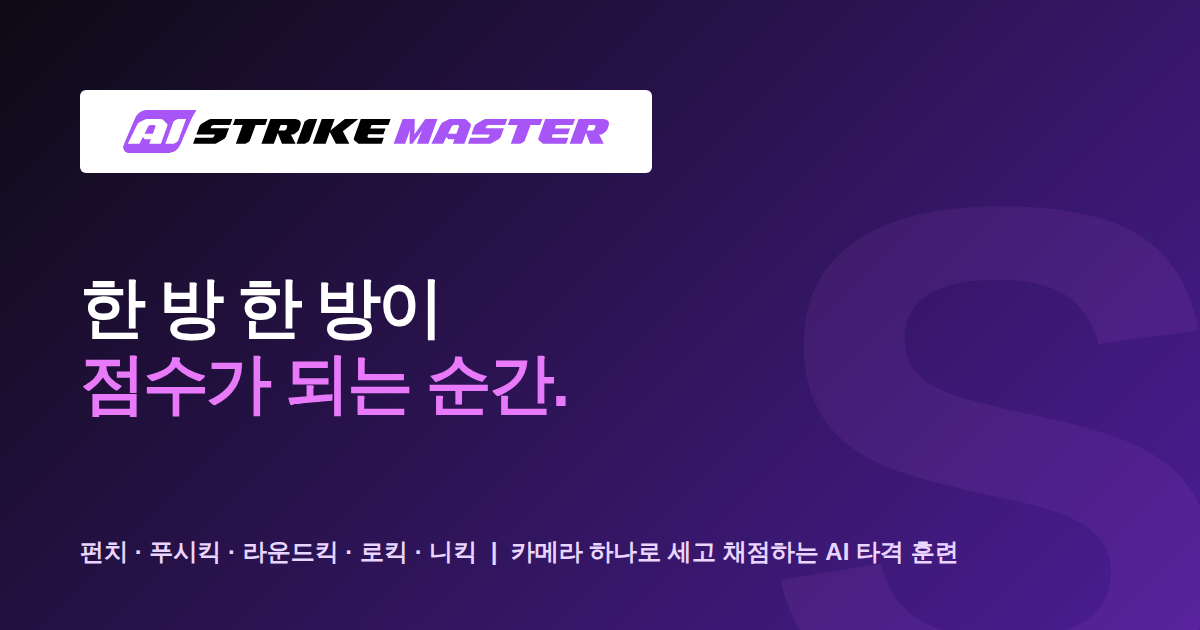
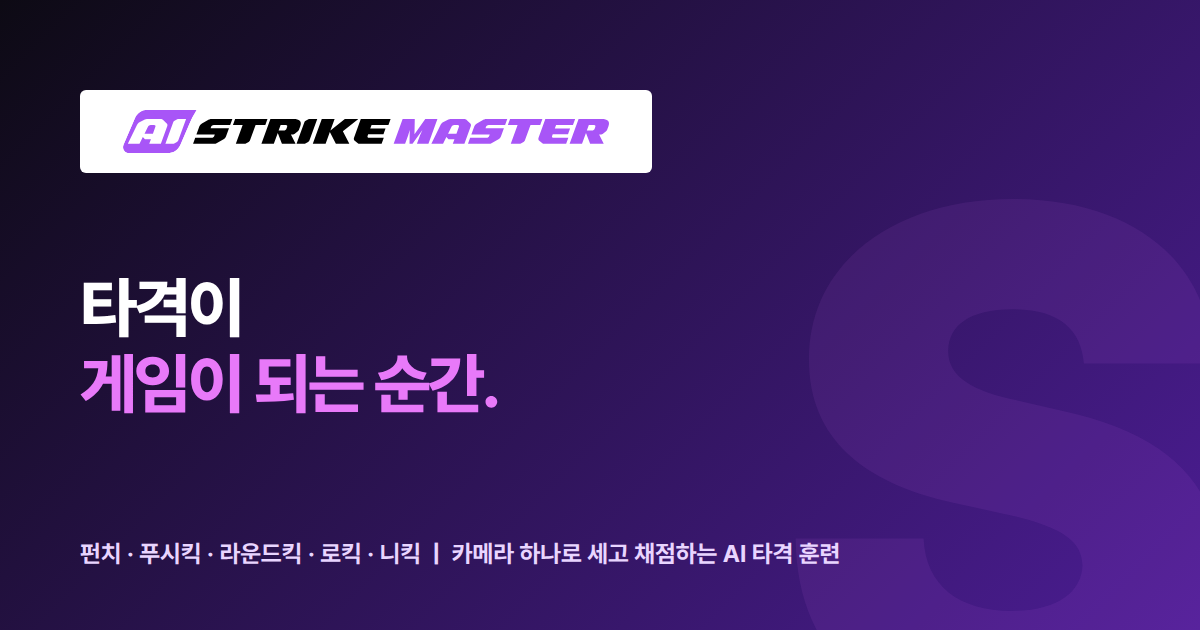
머릿말 통일 · 게임이 되는 순간

Changed region(s): [[0.0617, 0.4222, 0.4625, 0.6635], [0.0617, 0.8444, 0.8017, 0.9048]]

diff --git a/jumpmaster.html b/jumpmaster.html
@@ -35,16 +35,17 @@
 <meta property="og:site_name" content="나른랩스 NARUUN LABS">
 <meta property="og:locale" content="ko_KR">
 <meta property="og:url" content="https://naruunlabs.kr/jumpmaster">
-<meta property="og:title" content="AI 점프마스터 (AI JUMP MASTER) | 줄넘기 수업이 게임이 되는 순간">
+<meta property="og:title" content="AI 점프마스터 (AI JUMP MASTER) | 줄넘기가 게임이 되는 순간">
 <meta property="og:description" content="카메라 한 대로 줄넘기 횟수와 착지 리듬을 실시간 측정합니다. 1인·2인·릴레이·단체 리듬까지, 태권도장 줄넘기 수업을 더 쉽고 재미있게.">
-<meta property="og:image" content="https://naruunlabs.kr/og-jumpmaster-v2.png">
+
+<meta property="og:image" content="https://naruunlabs.kr/og-jumpmaster-v3.png">
 <meta property="og:image:width" content="1200">
 <meta property="og:image:height" content="630">
-<meta property="og:image:alt" content="AI JUMP MASTER | 줄넘기 수업이 게임이 되는 순간">
+<meta property="og:image:alt" content="AI JUMP MASTER | 줄넘기가 게임이 되는 순간">
 <meta name="twitter:card" content="summary_large_image">
-<meta name="twitter:title" content="AI 점프마스터 (AI JUMP MASTER) | 줄넘기 수업이 게임이 되는 순간">
+<meta name="twitter:title" content="AI 점프마스터 (AI JUMP MASTER) | 줄넘기가 게임이 되는 순간">
 <meta name="twitter:description" content="카메라 한 대로 줄넘기 횟수와 착지 리듬을 실시간 측정합니다. 1인·2인·릴레이·단체 리듬까지, 태권도장 줄넘기 수업을 더 쉽고 재미있게.">
-<meta name="twitter:image" content="https://naruunlabs.kr/og-jumpmaster-v2.png">
+<meta name="twitter:image" content="https://naruunlabs.kr/og-jumpmaster-v3.png">
 <meta name="description" content="웹캠 기반 AI 자세 인식으로 줄넘기 훈련을 리듬감 있고 직관적인 AI 측정 경험으로 바꾸는 AI 점프마스터(AI JUMP MASTER)." />
 
 <script type="application/ld+json">
@@ -648,7 +649,8 @@ footer{
   <section class="hero">
     <div class="wrap hero-inner">
       <div class="badge" id="jumpBadge">AI 자세 인식 · 줄넘기 훈련</div>
-      <h1 id="jumpTitle">줄넘기가<br><span>리듬이 되는 순간.</span></h1>
+      
+      <h1 id="jumpTitle">줄넘기가<br><span>게임이 되는 순간.</span></h1>
       <p class="lead" id="jumpLead">웹캠 하나로 점프 횟수와 리듬을 실시간으로 측정합니다. 수련생은 화면의 즉각적인 반응을 보며 즐겁게 반복하고, 지도자는 기존 수업 흐름 안에서 간편하게 활용할 수 있습니다.</p>
       <div class="actions">
         <a class="btn" href="/aijumpmaster">프로그램 실행</a>
@@ -779,7 +781,7 @@ footer{
     const setText = (id, val) => { const el = document.getElementById(id); if(el && val) el.textContent = val; };
     const setHtml = (id, val) => { const el = document.getElementById(id); if(el && val) el.innerHTML = val; };
     setText('jumpBadge', d.badge);
-    setHtml('jumpTitle', d.title);
+
     setText('jumpLead', d.lead);
     setText('jumpCtaDesc', d.cta_desc);
     return fetch('https://ebgoolsymyzkftvavpyj.supabase.co/functions/v1/clever-worker', {method:'POST',headers:{'Content-Type':'application/json'},body:JSON.stringify({action:'GET_HOME_DATA',payload:{target:'index'}})});

diff --git a/strikemaster.html b/strikemaster.html
@@ -33,14 +33,14 @@
 <meta property="og:site_name" content="나른랩스 NARUUN LABS">
 <meta property="og:locale" content="ko_KR">
 <meta property="og:url" content="https://naruunlabs.kr/strikemaster">
-<meta property="og:title" content="AI 스트라이크마스터 (AI STRIKE MASTER) | 타격 수업이 게임이 되는 순간">
+<meta property="og:title" content="AI 스트라이크마스터 (AI STRIKE MASTER) | 타격이 게임이 되는 순간">
 <meta property="og:description" content="카메라 한 대로 펀치·푸시킥·라운드킥·로킥·니킥을 실시간으로 세고 채점합니다. 1인·2인·타깃·파이트 모드로 타격 수업을 더 쉽고 재미있게.">
 <meta property="og:image" content="https://naruunlabs.kr/og-strikemaster.png">
 <meta property="og:image:width" content="1200">
 <meta property="og:image:height" content="630">
-<meta property="og:image:alt" content="AI STRIKE MASTER | 타격 수업이 게임이 되는 순간">
+<meta property="og:image:alt" content="AI STRIKE MASTER | 타격이 게임이 되는 순간">
 <meta name="twitter:card" content="summary_large_image">
-<meta name="twitter:title" content="AI 스트라이크마스터 (AI STRIKE MASTER) | 타격 수업이 게임이 되는 순간">
+<meta name="twitter:title" content="AI 스트라이크마스터 (AI STRIKE MASTER) | 타격이 게임이 되는 순간">
 <meta name="twitter:description" content="카메라 한 대로 펀치·푸시킥·라운드킥·로킥·니킥을 실시간으로 세고 채점합니다. 1인·2인·타깃·파이트 모드로 타격 수업을 더 쉽고 재미있게.">
 <meta name="twitter:image" content="https://naruunlabs.kr/og-strikemaster.png">
 <meta name="description" content="웹캠 기반 AI 자세 인식으로 펀치·로킥·니킥 같은 타격 훈련을 실시간 측정·채점하는 AI 스트라이크마스터(AI STRIKE MASTER)." />
@@ -657,8 +657,8 @@ h1{word-break:keep-all}
   <section class="hero">
     <div class="wrap hero-inner">
       <div class="badge" id="strikeBadge">AI 자세 인식 · 타격 훈련</div>
-      <h1 id="strikeTitle">한 방 한 방이<br><span>점수가 되는 순간.</span></h1>
-      <p class="lead" id="strikeLead">웹캠 하나로 펀치와 킥을 실시간으로 인식하고 세어 줍니다. 수련생은 화면의 즉각적인 반응을 보며 신나게 반복하고, 지도자는 기존 수업 흐름 안에서 간편하게 활용할 수 있습니다.</p>
+      <h1 id="strikeTitle">타격이<br><span>게임이 되는 순간.</span></h1>
+      <p class="lead" id="strikeLead">웹캠 하나로 펀치와 킥을 실시간으로 인식하고 세어 줍니다. 혼자 허공에 치던 쉐도우가 점수와 대결이 되어 수련생은 신나게 반복하고, 지도자는 기존 수업 흐름 안에서 간편하게 활용할 수 있습니다.</p>
       <div class="actions">
         <a class="btn" href="/aistrikemaster">프로그램 실행</a>
         <a class="btn ghost js-kakao-link" href="/#contact">도입 문의</a>
